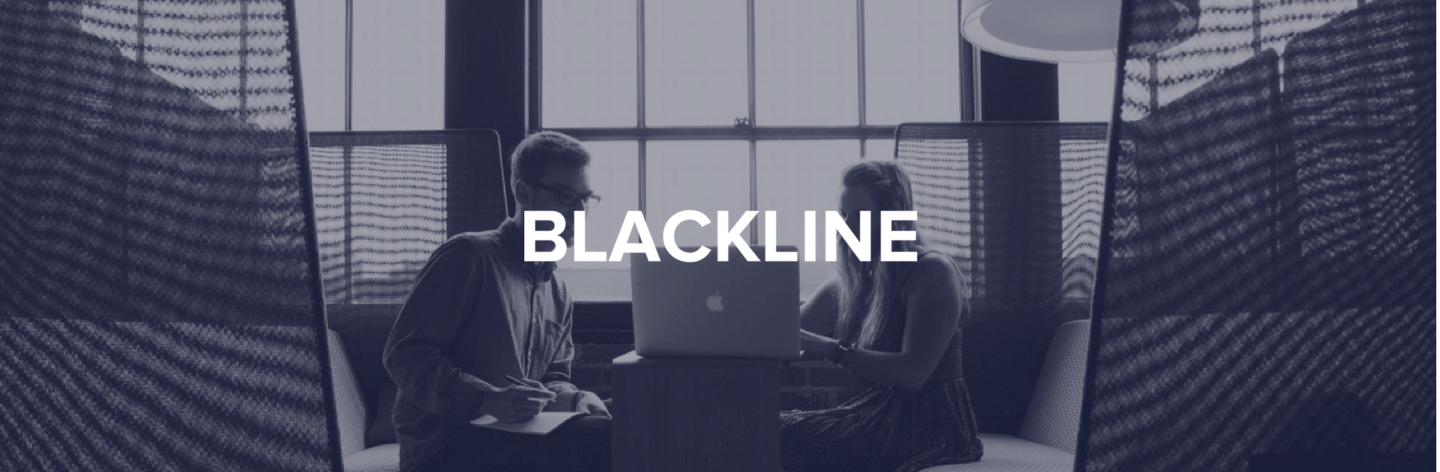
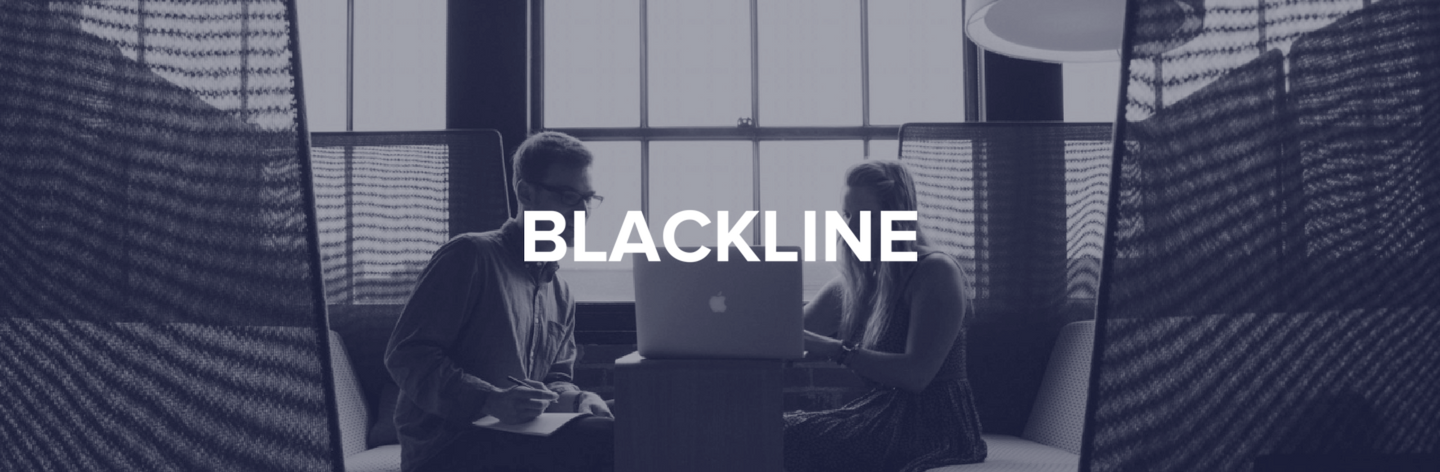
update homepage

diff --git a/client/app/components/pages/home/About.jsx b/client/app/components/pages/home/About.jsx
@@ -30,7 +30,12 @@ class About extends Component {
             </div>
           </div>
         </div>
-        <div className="our-team">
+        <div className="container text-center">
+          <h3>
+            “Ninety percent of all millionaires become so through owning real estate. More money has been made in real estate than in all industrial investments combined. The wise young man or wage earner of today invests his money in real estate.” -- Andrew Carnegie
+          </h3>
+        </div>
+        <div className="our-team mt-30">
           <div className="about-sheltek-area ptb-90">
             <div className="container text-center">
               <div className="col-md-8 col-md-offset-2">

diff --git a/client/app/components/pages/home/_Transactions.jsx b/client/app/components/pages/home/_Transactions.jsx
@@ -60,7 +60,7 @@ class Transactions extends Component {
                 <div className="col-md-12">
                   <div className="service-item">
                     <div className="service-item-image">
-                      <a><img src="/images/recent_transaction_2.jpg" /></a>
+                      <a><img src="/images/recent_transaction_2.png" /></a>
                     </div>
                     <div className="service-item-info">
                       <h5><a>FLOWER FOODS</a></h5>

diff --git a/vendor/assets/stylesheets/client/shortcode/default.scss b/vendor/assets/stylesheets/client/shortcode/default.scss
@@ -907,8 +907,8 @@ textarea:focus {
 /*************************************
   13. image background
  **************************************/
-.bg-3 { background: url("/images/city.jpg");}
-.bg-3 { background: url("/images/city.jpg");}
+.bg-3 { background: url("/images/background1.jpg");}
+.bg-3 { background: url("/images/background1.jpg");}
 
 .bg-1, .bg-2, .bg-3, .bg-4, .bg-5, .bg-6, .bg-7, .bg-8, .bg-9, .bg-10{
   background-attachment: fixed;

diff --git a/client/app/components/pages/home/_BookHomeHouse.jsx b/client/app/components/pages/home/_BookHomeHouse.jsx
@@ -5,7 +5,7 @@ class BookHomeHouse extends Component {
     return (
       <div>
         {/* BOOKING AREA START */}
-        <div className="booking-area bg-1 call-to-bg plr-140 pt-75 pbt-115">
+        <div className="booking-area bg-blue call-to-bg plr-140 pt-75 pbt-115">
           <div className="container-fluid">
             <div className="row">
               <div className="col-md-3 col-sm-4 col-xs-12">

diff --git a/client/app/components/pages/home/Services.jsx b/client/app/components/pages/home/Services.jsx
@@ -78,7 +78,7 @@ class Services extends Component {
             </div>
           </div>
         </div>
-        <div className="licensed loan officers bg-1 call-to-bg plr-140 pt-75">
+        <div className="licensed loan officers bg-blue call-to-bg plr-140 pt-75">
           <div className="container-fluid">
             <div className="row">
               <div className="col-md-3 col-sm-4 col-xs-12">

diff --git a/client/app/components/pages/home/_PoweredByData.jsx b/client/app/components/pages/home/_PoweredByData.jsx
@@ -3,7 +3,7 @@ import React, { Component } from 'react';
 class PoweredByData extends Component {
   render() {
     return (
-      <div className="booking-area bg-1 call-to-bg plr-140 pt-75">
+      <div className="booking-area bg-blue call-to-bg plr-140 pt-75">
         <div className="container-fluid">
           <div className="row">
             <div className="col-md-3 col-sm-4 col-xs-12">
